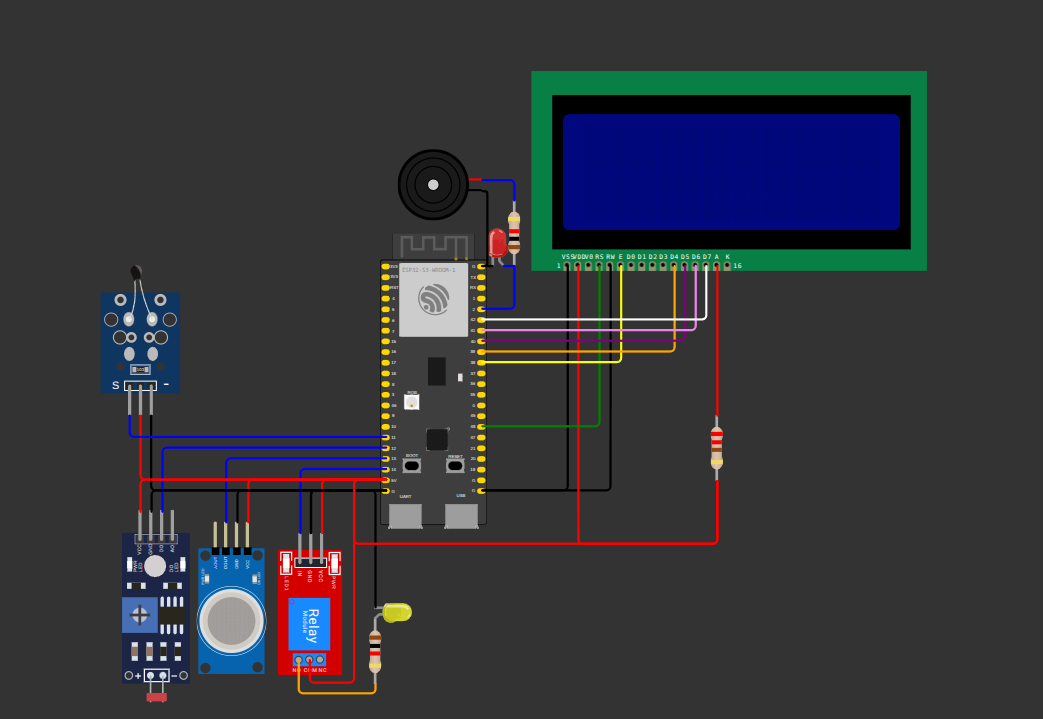
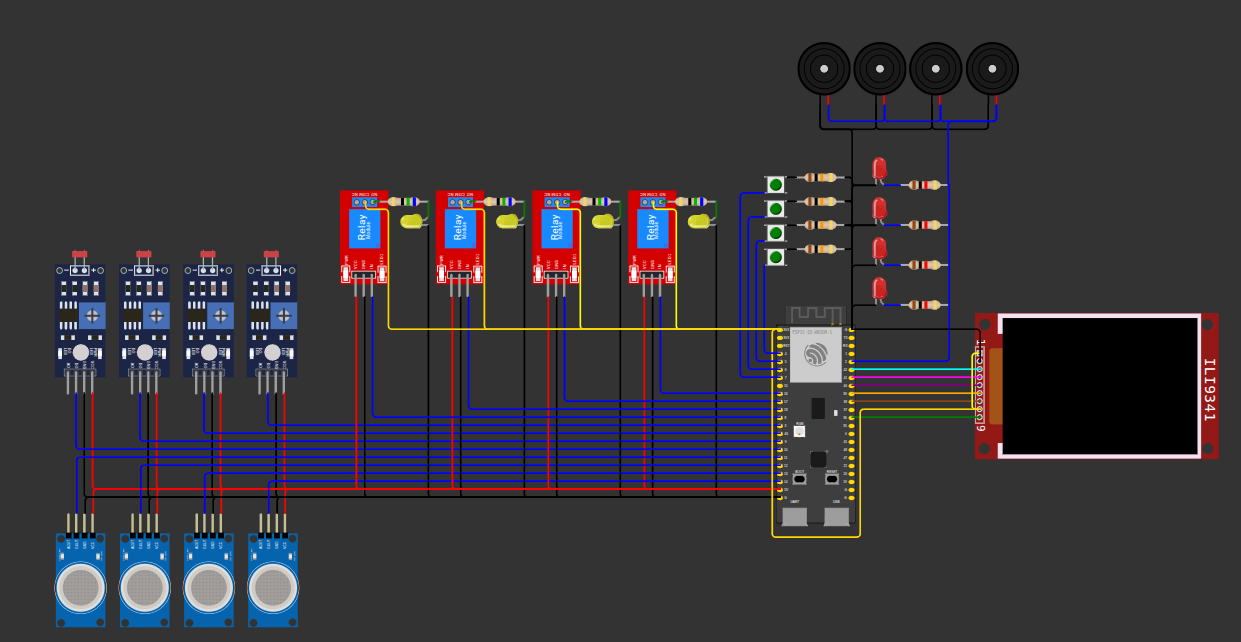
Atualização da doc do readme

diff --git a/README.md b/README.md
@@ -9,11 +9,11 @@ Organizado em uma parceria MCTI/Softex + CPQD + FIAP
 
 Link do projeto no Wokwi:
 
-[fiap_embedded_projects_3](https://wokwi.com/projects/454130082230099969)
+[fiap_embedded_projects_3](https://wokwi.com/projects/454603375687362561)
 
-Link do dashboard no Ubidots:
+Link do dashboard no Thingspeak:
 
-[Thingspeak](https://stem.ubidots.com/app/dashboards/69701418221d689174891929)
+[Thingspeak](https://thingspeak.mathworks.com/channels/3264524)
 
 ---
 ## Objetivo?
@@ -45,7 +45,7 @@ Link do dashboard no Ubidots:
 <br>3.1. [Critérios de projeto](https://github.com/MattGrossi12/fiap_embedded_projects_3/tree/main?tab=readme-ov-file#31-crit%C3%A9rios-de-projeto)
 4. [Conexão ao canal de comunicação com o broker Mosquitto/EMQX](https://github.com/MattGrossi12/fiap_embedded_projects_3/tree/main?tab=readme-ov-file#4-conex%C3%A3o-ao-canal-de-comunica%C3%A7%C3%A3o-com-o-broker-mosquittoemqx)
 5. [Arquitetura do firmware](https://github.com/MattGrossi12/fiap_embedded_projects_3/tree/main?tab=readme-ov-file#5-arquitetura-do-firmware)
-6. [Interação ao Ubidots](https://github.com/MattGrossi12/fiap_embedded_projects_3/tree/main?tab=readme-ov-file#6-intera%C3%A7%C3%A3o-ao-ubidots)
+6. [Interação ao Thingspeak](https://github.com/MattGrossi12/fiap_embedded_projects_3/tree/main?tab=readme-ov-file#6-intera%C3%A7%C3%A3o-ao-ubidots)
 
 
 ---
@@ -203,15 +203,29 @@ Em nosso projeto, foi adotado o seguinte mapa de conexões:
 
 | **Pino** | **Função** |
 | :---: | :--- |
-| GPIO 1 | Entrada Analógica: Sensor de Temperatura (NTC) |
-| GPIO 2 | Entrada Analógica: Sensor de Luminosidade (LDR) |
-| GPIO 3 | Entrada Digital: Sensor de Gás (MQ — Saída Digital) |
-| GPIO 45 | Saída Digital: LCD - RS (Register Select) |
-| GPIO 48 | Saída Digital: LCD - EN (Enable) |
-| GPIO 39 | Saída Digital: LCD - D4 (Barramento de Dados) |
-| GPIO 40 | Saída Digital: LCD - D5 (Barramento de Dados) |
-| GPIO 41 | Saída Digital: LCD - D6 (Barramento de Dados) |
-| GPIO 42 | Saída Digital: LCD - D7 (Barramento de Dados) |
+| GPIO 11 | Entrada Digital: Sensor de Gás 1 (MQ — saída digital, ativo em LOW) |
+| GPIO 12 | Entrada Digital: Sensor de Gás 2 (MQ — saída digital, ativo em LOW) |
+| GPIO 13 | Entrada Digital: Sensor de Gás 3 (MQ — saída digital, ativo em LOW) |
+| GPIO 14 | Entrada Digital: Sensor de Gás 4 (MQ — saída digital, ativo em LOW) |
+| GPIO 9 | Entrada Digital: Sensor de Luminosidade (LDR) 1 |
+| GPIO 46 | Entrada Digital: Sensor de Luminosidade (LDR) 2 |
+| GPIO 3 | Entrada Digital: Sensor de Luminosidade (LDR) 3 |
+| GPIO 10 | Entrada Digital: Sensor de Luminosidade (LDR) 4 |
+| GPIO 16 | Saída Digital: Relé 1 |
+| GPIO 17 | Saída Digital: Relé 2 |
+| GPIO 18 | Saída Digital: Relé 3 |
+| GPIO 8 | Saída Digital: Relé 4 |
+| GPIO 7 | Entrada Digital: Botão 1 (latch) |
+| GPIO 6 | Entrada Digital: Botão 2 (latch) |
+| GPIO 5 | Entrada Digital: Botão 3 (latch) |
+| GPIO 4 | Entrada Digital: Botão 4 (latch) |
+| GPIO 2 | Saída Digital: Sirene/Alarme de Gás |
+| GPIO 42 | Saída Digital (SPI): TFT - CS |
+| GPIO 40 | Saída Digital (SPI): TFT - DC |
+| GPIO 41 | Saída Digital (SPI): TFT - RST |
+| GPIO 38 | Saída Digital (SPI): TFT - SCK |
+| GPIO 39 | Saída Digital (SPI): TFT - MOSI |
+| GPIO 36 | Entrada Digital (SPI): TFT - MISO |
 
 <div align="justify">
 
@@ -225,37 +239,21 @@ Essa é a representação visual das conexões:
 
 <div align="justify">
 
-## 4. Conexão ao canal de comunicação com o broker Mosquitto/EMQX
-
-Para simplificar o uso do broker emqx em conjunto ao mosquitto, foi desenvolvido este arquivo `Makefile` que possui 3 modos de operação:
-
-1. Ao usar este comando no terminal, é realizada a exclusão do arquivo mqtt_log.csv que armazena os dados de operação recebidos do sistema:
-```bash
-make clean
-```
-2. Ao usar este comando no terminal, é criado o canal de escuta, fazendo com que os dados enviados pelo sistema sejam recebidos e armazenados no arquivo mqtt_log.csv
-```bash
-make listen
-```
-3. Ao usar este comando no terminal, é criado o canal de publicação, o que permite enviar dados ao sistema, em nosso caso essa função foi implementada para uso futuro, atualmente não há vantagem/função para dados enviados ao sistema.
-```bash
-make pub
-```
-
-<div align="justify">
-
 Essa é a representação visual das conexões:
 
 <div align="center">
 
 | **Ação** |
 | :--- |
-| O estado inicial é formado por um boot em duas etapas, sendo esta a 1º, nesse momento é feita a conexão de Wi-fi, paralelamento é demonstrado o cabeçalho no display que pode ser observado na imagem abaixo.|
+| O 1º estágio do boot transiciona para uma breve tela exibindo "Display inicializado"|
 |![Ope_tel_1](https://github.com/MattGrossi12/fiap_embedded_projects_3/blob/main/images/ope_tel_1.png)|
-| O 2º estágio do boot transiciona para uma apresentação breve do programa de estudos, enquanto que paralalemante é feita a conexão ao broker MQTT|
+| O 2º estágio do boot apresenta rapidamente o escopo de projeto e exibe o nome do projetista.|
 |![Ope_tel_2](https://github.com/MattGrossi12/fiap_embedded_projects_3/blob/main/images/ope_tel_2.png)|
-| Essa já é a tela de operação em regime permanente, composta por 4 linhas, onde é possível acompanhar a temperatura atual, verificar o estado de detecção de gás, o estado das luzes autônomas e ainda, monitorar se o MQTT está operando normalmente, caso a conexão ao Wi-fi e ao MQTT estejam ativas, os dados da operação serão enviados ao broker onde serão armazenados no mqtt_log.csv|
+| O 3º estágio do boot demonstra os organizadores do curso.|
 |![Ope_tel_3](https://github.com/MattGrossi12/fiap_embedded_projects_3/blob/main/images/ope_tel_3.png)|
+| A tela final demonstra o processo de operação em regime permanente.|
+|![Ope_tel_4](https://github.com/MattGrossi12/fiap_embedded_projects_3/blob/main/images/ope_tel_4.png)|
+
 
 <div align="justify">
 
@@ -268,22 +266,23 @@ Essa é a representação visual das conexões:
 | [main.cpp](https://github.com/MattGrossi12/fiap_embedded_projects_3/blob/main/src/main.cpp)   | Responsável por processar e executar as funções primárias. |
 | [wifi.cpp](https://github.com/MattGrossi12/fiap_embedded_projects_3/blob/main/src/wifi.cpp)   | Centraliza os comandos necessários para conexão ao wi-fi. |
 | [mqtt.cpp](https://github.com/MattGrossi12/fiap_embedded_projects_3/blob/main/src/mqtt.cpp)  | Centraliza os comandos necessários para conexão ao broker. |
-| [ubidots.cpp](https://github.com/MattGrossi12/fiap_embedded_projects_3/blob/main/src/ubidots.cpp) | Adiciona o suporte ao Ubidots, permitindo a implementação de dashboards |
-| [wifi_con.h](https://github.com/MattGrossi12/fiap_embedded_projects_3/blob/main/src/wifi_con.h) | Chamada das funções recursivas de conexão ao wi-fi. |
+| [thingspeak.cpp](https://github.com/MattGrossi12/fiap_embedded_projects_3/blob/main/src/thingspeak.cpp) | Adiciona o suporte ao Thingspeak, permitindo a implementação de dashboards |
+| [tft.cpp](https://github.com/MattGrossi12/fiap_embedded_projects_3/blob/main/src/tft.cpp) | Adiciona o suporte ao uso do display TFT LCD 320x240 IL9341 |
+| [img1.cpp](https://github.com/MattGrossi12/fiap_embedded_projects_3/blob/main/src/img1.cpp) | Adiciona o cabeçalho de inicialização 1, que pode ser visto na próxima secção.|
+| [img2.cpp](https://github.com/MattGrossi12/fiap_embedded_projects_3/blob/main/src/img1.cpp) | Adiciona o cabeçalho de inicialização 2, que pode ser visto na próxima secção.|
+| [tft.h](https://github.com/MattGrossi12/fiap_embedded_projects_3/blob/main/src/wifi_con.h) | Chamada das funções recursivas de conexão ao display. |
 | [mqtt_con.h](https://github.com/MattGrossi12/fiap_embedded_projects_3/blob/main/src/mqtt_con.h) | Chamada das funções recursivas de conexão ao MQTT. |
-| [ubidots_con.h](https://github.com/MattGrossi12/fiap_embedded_projects_3/blob/main/src/ubidots_con.h) | Chamada das funções recursivas de conexão ao Ubidots |
+| [thingspeak_con.h](https://github.com/MattGrossi12/fiap_embedded_projects_3/blob/main/src/thingspeak_con.h) | Chamada das funções recursivas de conexão ao Thingspeak |
 
 <div align="justify">
 
-## 6. Interação ao Ubidots:
+## 6. Interação ao Thingspeak:
 
-Através desse processo torna-se possível a implementação de um dashboard para montiramento das grandezas, além disso, caso haja entradas intertravadas, adiciona asism um controle remoto do sistema, em nosso ambiente foi implementado desta forma:
+Através desse processo torna-se possível a implementação de um dashboard para montiramento das grandezas:
 
 | **Imagens do dashboard em operação** |
 | :--- |
 |![dash_1](https://github.com/MattGrossi12/fiap_embedded_projects_3/blob/main/images/dash_1.png)|
-|![dash_2](https://github.com/MattGrossi12/fiap_embedded_projects_3/blob/main/images/dash_2.png)|
-|![dash_3](https://github.com/MattGrossi12/fiap_embedded_projects_3/blob/main/images/dash_3.png)|
-|![dash_4](https://github.com/MattGrossi12/fiap_embedded_projects_3/blob/main/images/dash_4.png)|
+
 ---
 
